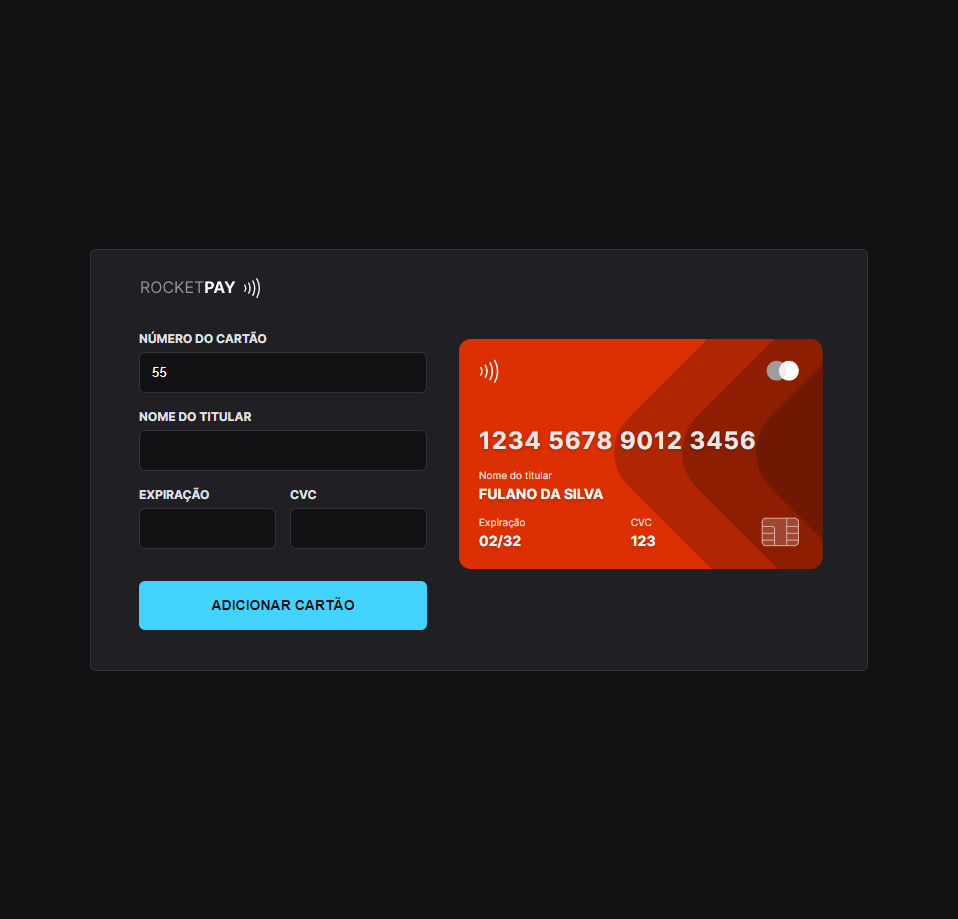
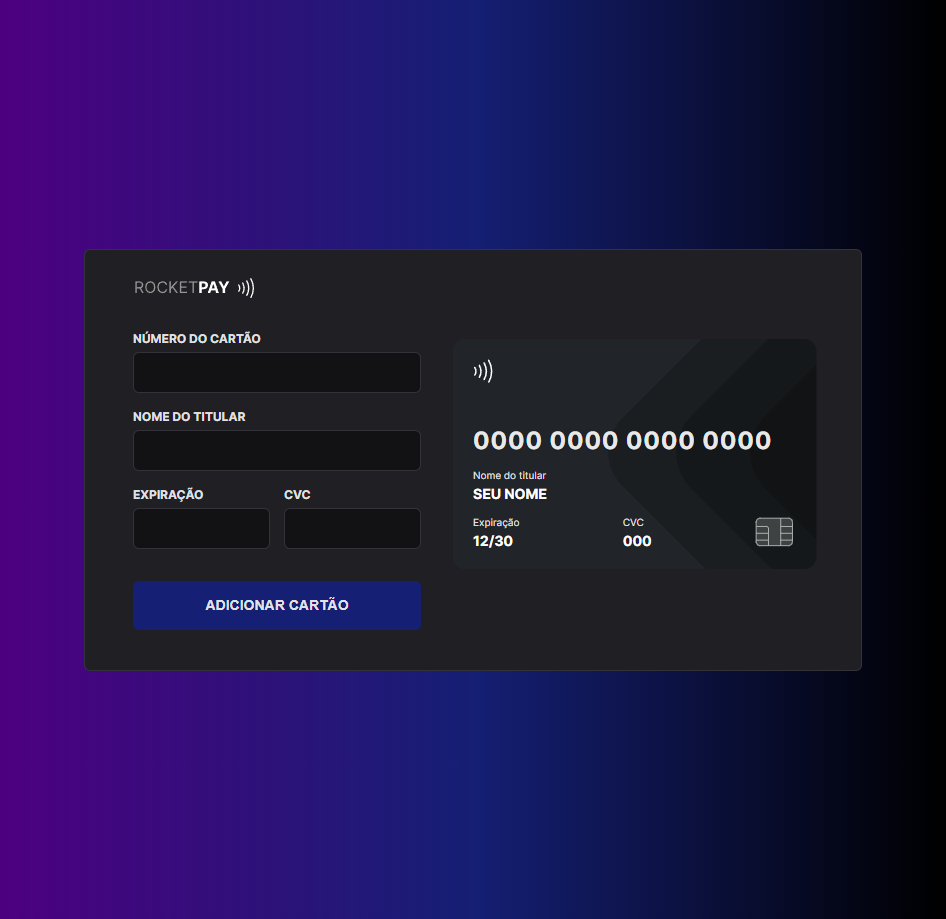
Adicionado preview mobile

diff --git a/README.md b/README.md
@@ -18,7 +18,13 @@ Evento exclusivo e gratuito, promovido pela Rocketseat para ensino de tecnologia
 <br>
 
 <p align="center">
-  <img alt="rocketpay" src=".github/preview.png" width="100%">
+  <img alt="rocketpay desktop" src=".github/preview.png" width="100%">
+</p>
+
+<br>
+
+<p align="center">
+  <img alt="rocketpay mobile" src=".github/preview-mobile.png" width="50%">
 </p>
 
 ## 🚀 Tecnologias
